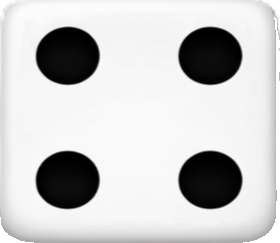
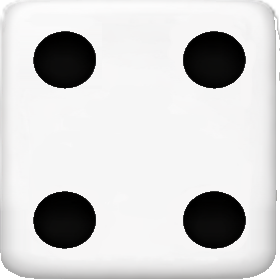
First enemy (#41)
* feat: implement LevelEngine and Enemy classes; enhance dice throwing functionality

* feat: update dice and slime images for enhanced visuals

* feat: add enemy texture updates and renamed slime image

---------

diff --git a/src/game/scenes/Game.ts b/src/game/scenes/Game.ts
@@ -1,6 +1,7 @@
 import { EventBus } from '../EventBus';
 import { Scene } from 'phaser';
 import { DiceHandler } from '../classes/DiceHandler';
+import { LevelEngine } from '../classes/LevelEngine';
 
 export class Game extends Scene {
     camera: Phaser.Cameras.Scene2D.Camera;
@@ -8,6 +9,10 @@ export class Game extends Scene {
     gameText: Phaser.GameObjects.Text;
     diceHandler: DiceHandler;
     diceText: Phaser.GameObjects.Text;
+    levelNumberText: Phaser.GameObjects.Text;
+    enemyNameText: Phaser.GameObjects.Text;
+    enemyHealthText: Phaser.GameObjects.Text;
+    levelEngine: LevelEngine;
 
     constructor() {
         super('Game');
@@ -18,11 +23,13 @@ export class Game extends Scene {
 
         this.background = this.add.image(768, 512, 'mm_background');
 
-        this.createTexts()
-
-        this.createButtons()
-
         this.diceHandler = new DiceHandler(this);
+
+        this.levelEngine = new LevelEngine(this);
+        
+        this.createTexts();
+        
+        this.createButtons();
 
         EventBus.emit('current-scene-ready', this);
     }
@@ -37,7 +44,23 @@ export class Game extends Scene {
             stroke: '#893700', strokeThickness: 8,
             align: 'center'
         }).setOrigin(0.5).setDepth(100);
+        this.levelNumberText = this.add.text(50, 50, `Level ${this.levelEngine.currentLevel}`, {
+            fontFamily: 'actionman', fontSize: 64, color: '#ff9000',
+            stroke: '#893700', strokeThickness: 8,
+            align: 'center'
+        });
+        this.enemyNameText = this.add.text(1048, 50, `${this.levelEngine.getEnemyName()}`, {
+            fontFamily: 'actionman', fontSize: 48, color: '#ff9000',
+            stroke: '#893700', strokeThickness: 8,
+            align: 'center'
+        });
+        this.enemyHealthText = this.add.text(1048, 100, `HP: ${this.levelEngine.getCurrentEnemyHitPoints()} / ${this.levelEngine.getEnemyMaxHitPoints()}`, {
+            fontFamily: 'actionman', fontSize: 48, color: '#ff9000',
+            stroke: '#893700', strokeThickness: 8,
+            align: 'center'
+        });
     }
+
     createButtons() {
         const button = this.add.image(1100, 900, 'dice');
 
@@ -45,20 +68,20 @@ export class Game extends Scene {
         button.setInteractive();
 
         // Klick-Event
-        button.on('pointerdown', () => {
-
-            const result = this.diceHandler.throwDice();
+        button.on('pointerdown', async () => {
+            const result = await this.diceHandler.throwDice();
             const total = result.reduce((s, v) => s + v, 0);
 
             this.diceText.setText(total.toString());
-
-            this.diceText.setScale(0);
+            
             this.tweens.add({
                 targets: this.diceText,
                 scale: 1,
                 duration: 200,
                 ease: 'Back.Out'
             });
+            this.levelEngine.dealDamageToEnemy(total);
+            this.enemyHealthText.setText(`HP: ${this.levelEngine.getCurrentEnemyHitPoints()} / ${this.levelEngine.getEnemyMaxHitPoints()}`);
         });
 
         // Hover-Effekt

diff --git a/src/game/classes/DiceHandler.ts b/src/game/classes/DiceHandler.ts
@@ -41,7 +41,7 @@ export class DiceHandler {
             .setVisible(true);
     }
 
-    private animateDice(sprite: GameObjects.Image, dice: Dice, finalTexture: string, delayOffset = 0) {
+    private animateDice(sprite: GameObjects.Image, dice: Dice, finalTexture: string, delayOffset = 0): number {
         let totalDuration = 0;
 
         for (let i = 0; i < 12; i++) {
@@ -50,7 +50,6 @@ export class DiceHandler {
 
             this.scene.time.delayedCall(delay, () => {
                 if (!sprite.active) return;
-
 
                 const face = dice.roll();
                 const textureKey = Object.values(face)[0];
@@ -84,9 +83,11 @@ export class DiceHandler {
                 ease: 'Quad.Out'
             });
         });
+
+        return totalDuration + 120; // include final settle tween time
     }
 
-    throwDice(): number[] {
+    throwDice(): Promise<number[]> {
         this.clearDice();
 
         const cam = this.scene.cameras.main;
@@ -96,6 +97,7 @@ export class DiceHandler {
         const targetY = cam.centerY;
 
         const results: number[] = [];
+        let maxDuration = 0;
 
         this.playersDice.forEach((dice, index) => {
             const result = dice.roll();
@@ -112,17 +114,26 @@ export class DiceHandler {
 
             this.activeDiceSprites.push(sprite);
 
-            this.animateDice(sprite, dice, Object.values(result)[0], index * 10);
+            const rollDuration = this.animateDice(sprite, dice, Object.values(result)[0], index * 10);
+            maxDuration = Math.max(maxDuration, rollDuration);
+
+            const moveDuration = 700 + index * 80;
+            maxDuration = Math.max(maxDuration, moveDuration);
 
             this.scene.tweens.add({
                 targets: sprite,
                 x: baseX + index * 90,
                 y: targetY + (index % 2 === 0 ? -8 : 8),
                 scale: { from: 0, to: this.diceScale },
-                duration: 700 + index * 80,
+                duration: moveDuration,
                 ease: 'Cubic.Out'
             });
         });
-        return results;
+
+        return new Promise((resolve) => {
+            this.scene.time.delayedCall(maxDuration, () => {
+                resolve(results);
+            });
+        });
     }
 }

diff --git a/src/game/classes/LevelEngine.ts b/src/game/classes/LevelEngine.ts
@@ -1,0 +1,62 @@
+import { Scene,  } from 'phaser';
+import { Enemy } from './Enemy';
+
+export class LevelEngine {
+    scene: Scene;
+    currentEnemy : Enemy;
+    currentLevel : number;
+    enemySprite: Phaser.GameObjects.Sprite;
+
+    constructor(scene: Scene) {
+        this.scene = scene;
+        this.currentLevel = 1;
+        this.startLevel(this.currentLevel)
+    }
+
+    startLevel(level: number) {       
+        //Level Nummer wird später genutzt für Prozedurale Formeln von Gegnern etc.  
+        this.currentEnemy = new Enemy('Slime', 'slime_idle', 20);
+        this.enemySprite= this.scene.add.sprite(1048, 620, this.currentEnemy.texture);
+        this.enemySprite.setScale(0.25, 0.25);
+    }
+
+    updateEnemyTexture() {
+        const percentageHitpoints = this.currentEnemy.currentHitPoints / this.currentEnemy.maxHitPoints;
+        switch (true) {
+            case percentageHitpoints === 0:
+                this.currentEnemy.texture = 'slime_dead';
+                break;
+            case percentageHitpoints <= 0.5:
+                this.currentEnemy.texture = 'slime_damage_high';
+                break;
+            case percentageHitpoints < 1:
+                this.currentEnemy.texture = 'slime_damage_low';
+                break;
+            default:
+                this.currentEnemy.texture = 'slime_idle';
+        }
+        this.enemySprite.setTexture(this.currentEnemy.texture);
+    }
+
+    dealDamageToEnemy(damage: number) {
+        if (damage >= this.currentEnemy.currentHitPoints) {
+            this.currentEnemy.currentHitPoints = 0;
+        }
+        else {
+            this.currentEnemy.currentHitPoints -= damage;
+        }
+        this.updateEnemyTexture();
+    }
+
+    getCurrentEnemyHitPoints() {
+        return this.currentEnemy.currentHitPoints;
+    }
+
+    getEnemyMaxHitPoints() {
+        return this.currentEnemy.maxHitPoints;
+    }
+
+    getEnemyName() {
+        return this.currentEnemy.name;
+    }
+}

diff --git a/src/game/scenes/Preloader.ts b/src/game/scenes/Preloader.ts
@@ -38,13 +38,20 @@ export class Preloader extends Scene
 
         this.load.image('dice', './images/dice.png');
 
-        // Dice face images (files in public/assets/images named "Dice 1.png" .. "Dice 6.png")
+        // Dice face images 
         this.load.image('regular-dice-1', './images/Dice 1.png');
         this.load.image('regular-dice-2', './images/Dice 2.png');
         this.load.image('regular-dice-3', './images/Dice 3.png');
         this.load.image('regular-dice-4', './images/Dice 4.png');
         this.load.image('regular-dice-5', './images/Dice 5.png');
         this.load.image('regular-dice-6', './images/Dice 6.png');
+
+        // Enemy images
+        this.load.image('slime_idle', './images/slime_idle.png');
+        this.load.image('slime_damage_low', './images/slime_damage_low.png');
+        this.load.image('slime_damage_high', './images/slime_damage_high.png');
+        this.load.image('slime_win', './images/slime_win.png');
+        this.load.image('slime_dead', './images/slime_dead.png');
 
         //  Load Fonts
         this.load.font('actionman', './fonts/Action-Man/Action_Man.ttf', 'truetype')

diff --git a/src/game/scenes/GameOver.ts b/src/game/scenes/GameOver.ts
@@ -24,7 +24,7 @@ export class GameOver extends Scene
             align: 'center'
         }).setOrigin(0.5).setDepth(100);
 
-        this.gameOverText = this.add.text(768, 582, 'Click to Head back to Menu', {
+        this.gameOverText = this.add.text(768, 582, 'Klicke, um zum Hauptmenü zurückzukehren', {
             fontFamily: 'actionman', fontSize: 64, color: '#ff9000',
             stroke: '#893700', strokeThickness: 8,
             align: 'center'

diff --git a/src/game/classes/Enemy.ts b/src/game/classes/Enemy.ts
@@ -1,0 +1,14 @@
+export class Enemy {
+    name: string;
+    texture: string;
+    currentHitPoints: number;
+    maxHitPoints: number;
+    
+    constructor(name: string, texture: string, maxHitPoints: number) {
+        this.name = name;
+        this.texture = texture;
+        this.maxHitPoints = maxHitPoints;
+        this.currentHitPoints = maxHitPoints;
+    }
+
+}
